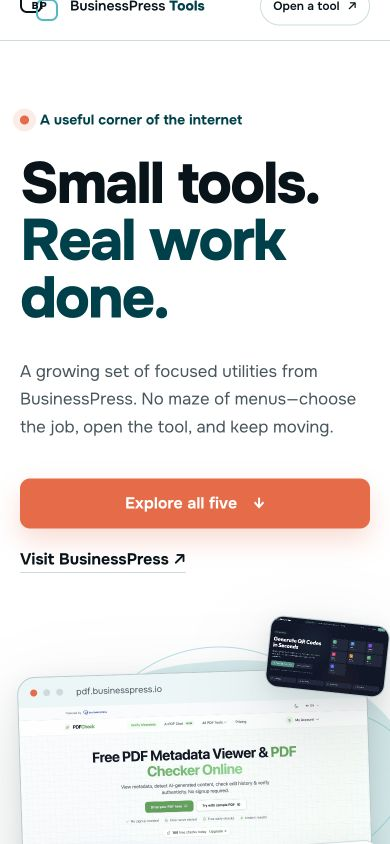
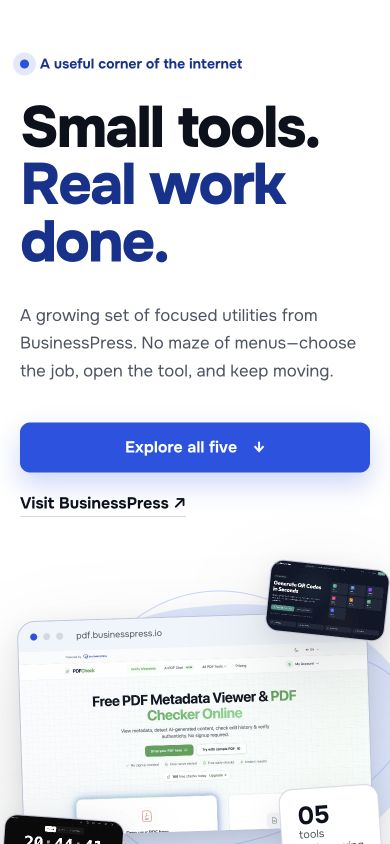
align tools hub with BusinessPress blue

diff --git a/public/assets/css/site.css b/public/assets/css/site.css
@@ -2,20 +2,20 @@
 
 :root {
   --bg: oklch(1 0 0);
-  --surface: oklch(0.965 0.012 200);
-  --surface-strong: oklch(0.93 0.028 200);
-  --ink: oklch(0.18 0.025 220);
-  --muted: oklch(0.44 0.025 220);
-  --primary: oklch(0.72 0.12 200);
-  --primary-dark: oklch(0.33 0.09 205);
-  --accent: oklch(0.68 0.19 35);
-  --line: oklch(0.88 0.018 205);
+  --surface: oklch(0.965 0.012 264);
+  --surface-strong: oklch(0.93 0.035 264);
+  --ink: oklch(0.18 0.025 264);
+  --muted: oklch(0.44 0.025 264);
+  --primary: oklch(0.72 0.14 264);
+  --primary-dark: oklch(0.36 0.16 264);
+  --accent: oklch(0.51 0.23 264);
+  --line: oklch(0.88 0.018 264);
   --white: oklch(1 0 0);
   --black: oklch(0.08 0 0);
   --radius-sm: 10px;
   --radius-md: 18px;
   --radius-lg: 28px;
-  --shadow: 0 30px 80px oklch(0.18 0.025 220 / 0.14), 0 6px 20px oklch(0.18 0.025 220 / 0.08);
+  --shadow: 0 30px 80px oklch(0.18 0.025 264 / 0.14), 0 6px 20px oklch(0.18 0.025 264 / 0.08);
   --shell: min(1240px, calc(100% - 48px));
 }
 
@@ -154,7 +154,7 @@ nav > a:not(.header-cta):hover { color: var(--ink); }
   height: 9px;
   border-radius: 50%;
   background: var(--accent);
-  box-shadow: 0 0 0 7px oklch(0.68 0.19 35 / 0.13);
+  box-shadow: 0 0 0 7px oklch(0.51 0.23 264 / 0.13);
 }
 
 h1, h2, h3, p { text-wrap: pretty; }
@@ -194,10 +194,10 @@ h1 em { color: var(--primary-dark); font-style: normal; }
 }
 
 .button:hover { transform: translateY(-3px); }
-.button-primary { background: var(--accent); color: var(--white); box-shadow: 0 12px 26px oklch(0.68 0.19 35 / 0.24); }
-.button-primary:hover { box-shadow: 0 16px 34px oklch(0.68 0.19 35 / 0.32); }
+.button-primary { background: var(--accent); color: var(--white); box-shadow: 0 12px 26px oklch(0.51 0.23 264 / 0.24); }
+.button-primary:hover { box-shadow: 0 16px 34px oklch(0.51 0.23 264 / 0.32); }
 .button-dark { background: var(--ink); color: var(--white); }
-.button-dark:hover { background: var(--primary-dark); box-shadow: 0 14px 28px oklch(0.33 0.09 205 / 0.22); }
+.button-dark:hover { background: var(--primary-dark); box-shadow: 0 14px 28px oklch(0.36 0.16 264 / 0.22); }
 
 .text-link { font-weight: 700; border-bottom: 1px solid var(--line); }
 .text-link span { display: inline-block; transition: transform 180ms ease; }
@@ -221,13 +221,13 @@ h1 em { color: var(--primary-dark); font-style: normal; }
   transform: rotate(-5deg);
 }
 
-.orbit { position: absolute; z-index: -2; border: 1px solid oklch(0.72 0.12 200 / 0.42); border-radius: 50%; }
+.orbit { position: absolute; z-index: -2; border: 1px solid oklch(0.72 0.14 264 / 0.42); border-radius: 50%; }
 .orbit-one { width: 430px; height: 430px; right: 3%; top: 4%; }
 .orbit-two { width: 540px; height: 250px; right: -13%; top: 28%; transform: rotate(-17deg); }
 
 .preview-window {
   overflow: hidden;
-  border: 1px solid oklch(0.82 0.025 205);
+  border: 1px solid oklch(0.82 0.025 264);
   border-radius: var(--radius-md);
   background: var(--white);
   box-shadow: var(--shadow);
@@ -268,7 +268,7 @@ h1 em { color: var(--primary-dark); font-style: normal; }
   color: var(--muted);
   font-size: 11px;
   line-height: 1.25;
-  box-shadow: 0 12px 32px oklch(0.18 0.025 220 / 0.1);
+  box-shadow: 0 12px 32px oklch(0.18 0.025 264 / 0.1);
   transform: rotate(-4deg);
 }
 
@@ -332,8 +332,8 @@ h1 em { color: var(--primary-dark); font-style: normal; }
   transition: transform 260ms ease, box-shadow 260ms ease;
 }
 
-.screenshot-wrap:hover { transform: translateY(-8px) rotate(0.4deg); box-shadow: 0 30px 70px oklch(0.18 0.025 220 / 0.13); }
-.screenshot-wrap img { width: 100%; aspect-ratio: 1.897; object-fit: cover; object-position: top; border: 1px solid oklch(0.82 0.02 205); border-radius: calc(var(--radius-lg) - 9px); box-shadow: 0 12px 34px oklch(0.18 0.025 220 / 0.12); }
+.screenshot-wrap:hover { transform: translateY(-8px) rotate(0.4deg); box-shadow: 0 30px 70px oklch(0.18 0.025 264 / 0.13); }
+.screenshot-wrap img { width: 100%; aspect-ratio: 1.897; object-fit: cover; object-position: top; border: 1px solid oklch(0.82 0.02 264); border-radius: calc(var(--radius-lg) - 9px); box-shadow: 0 12px 34px oklch(0.18 0.025 264 / 0.12); }
 
 .screenshot-label {
   position: absolute;
@@ -363,9 +363,9 @@ footer { background: var(--ink); color: var(--white); }
 .footer-grid { min-height: 210px; display: grid; grid-template-columns: 1fr auto; align-content: center; align-items: center; gap: 28px; }
 .brand-footer .brand-name strong { color: var(--primary); }
 .footer-links { display: flex; flex-wrap: wrap; justify-content: flex-end; gap: 24px; font-weight: 600; }
-.footer-links a { color: oklch(0.86 0.015 210); }
+.footer-links a { color: oklch(0.86 0.015 264); }
 .footer-links a:hover { color: var(--primary); }
-.footer-grid > p { grid-column: 1 / -1; margin: 0; color: oklch(0.68 0.018 210); font-size: 12px; }
+.footer-grid > p { grid-column: 1 / -1; margin: 0; color: oklch(0.68 0.018 264); font-size: 12px; }
 
 .noscript { margin: 0; padding: 12px; background: var(--accent); color: var(--white); text-align: center; font-weight: 700; }
 

diff --git a/DESIGN.md b/DESIGN.md
@@ -2,22 +2,22 @@
 
 ## Direction
 
-Mood: a precision workshop under clear daylight—calm surfaces, cyan drafting marks, and decisive warm signals. The aesthetic borrows Stripe's color clarity and Linear's product confidence, but uses a more physical, catalog-like composition built around real tool screenshots.
+Mood: a precision workshop under electric-blue grid light—calm white surfaces, deep ink structure, and decisive cobalt signals. The direction follows the upcoming BusinessPress brand's dark operational confidence and vivid blue actions, adapted into a brighter catalog-like composition built around real tool screenshots.
 
 ## Color
 
 Use OKLCH values throughout.
 
 - Background: `oklch(1 0 0)`
-- Surface: `oklch(0.965 0.012 200)`
-- Ink: `oklch(0.18 0.025 220)`
-- Muted ink: `oklch(0.46 0.025 220)`
-- Primary sky: `oklch(0.72 0.12 200)`
-- Primary dark: `oklch(0.33 0.09 205)`
-- Accent coral: `oklch(0.68 0.19 35)`
-- Line: `oklch(0.88 0.018 205)`
+- Surface: `oklch(0.965 0.012 264)`
+- Ink: `oklch(0.18 0.025 264)`
+- Muted ink: `oklch(0.44 0.025 264)`
+- Primary sky: `oklch(0.72 0.14 264)`
+- Primary dark: `oklch(0.36 0.16 264)`
+- BusinessPress blue: `oklch(0.51 0.23 264)`
+- Line: `oklch(0.88 0.018 264)`
 
-The strategy is full palette with disciplined roles: white owns the canvas, cyan identifies the collection, coral marks decisive actions, and each tool may have one supporting tint.
+The strategy is a committed BusinessPress blue system: white owns the canvas, cobalt marks decisive actions, deep blue identifies the collection, and each tool may retain one supporting screenshot tint.
 
 ## Typography
 
@@ -39,7 +39,7 @@ Use Onest as the single deliberate family, sourced from Google Fonts with a syst
 ## Components
 
 - Wordmark: compact BP monogram plus “BusinessPress Tools”.
-- Primary button: coral fill, near-white text, modest radius, strong focus ring.
+- Primary button: BusinessPress blue fill, near-white text, modest radius, strong focus ring.
 - Secondary text link: ink with animated directional arrow; underline on hover/focus.
 - Product screenshot frame: browser-like chrome, subtle border, restrained shadow, real captured interface.
 - Tool index: numbered navigation with tool name and one-word job cue.